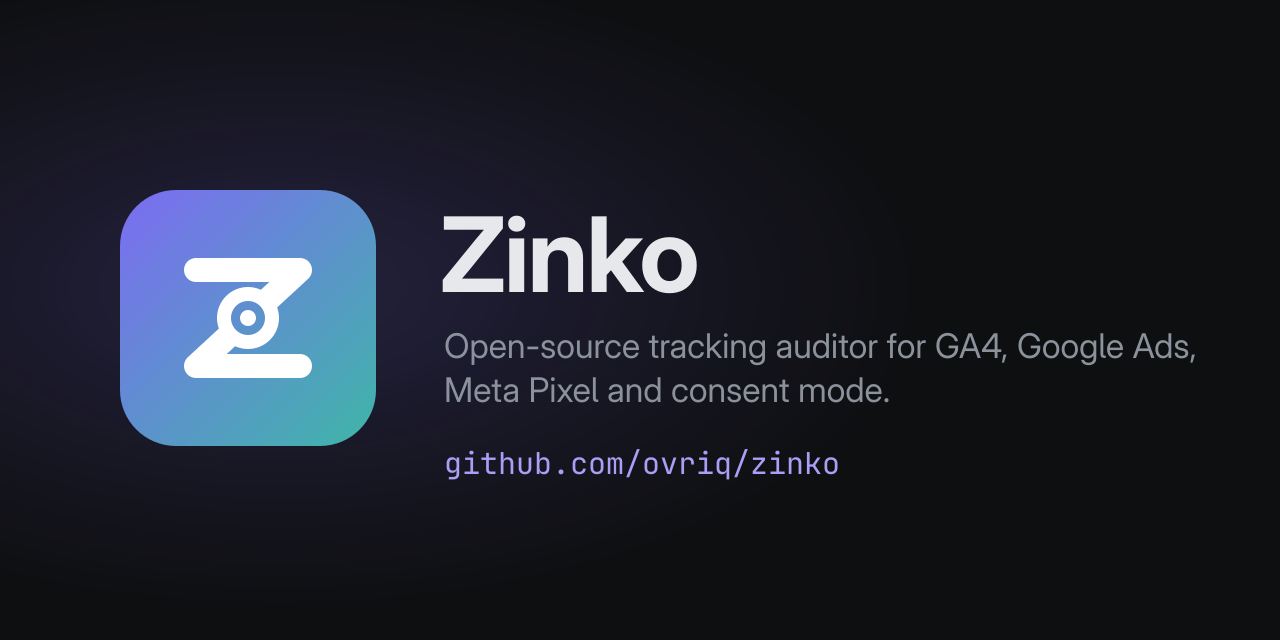
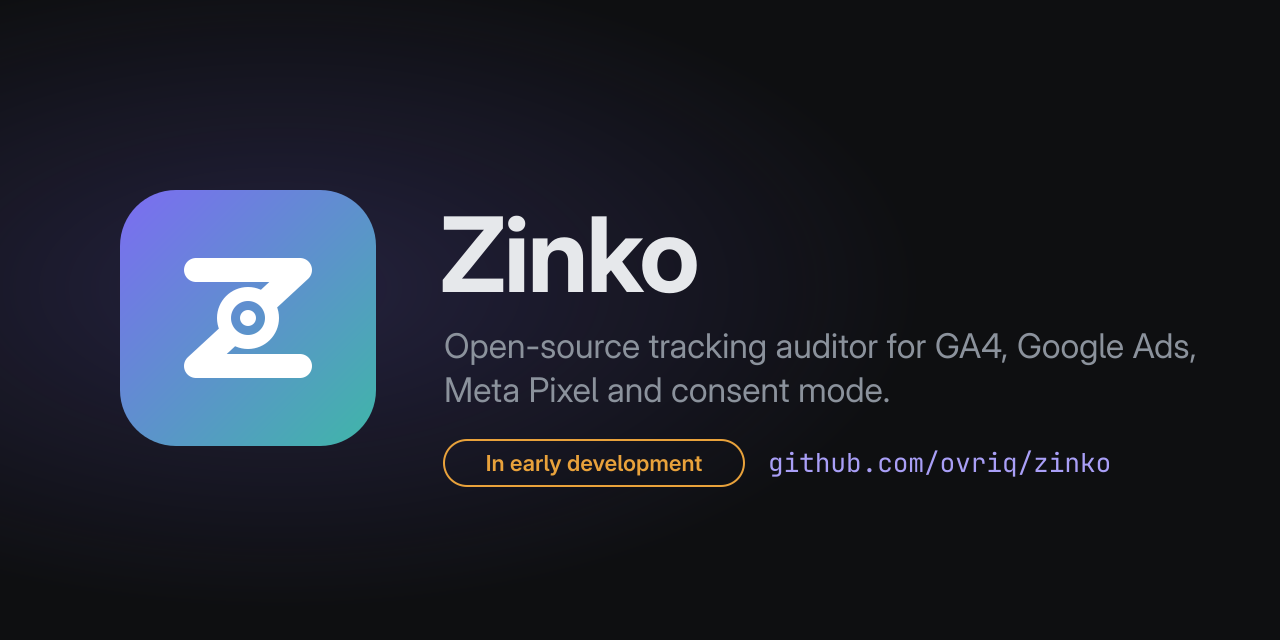
README: trial first, accurate AGPL and consent wording, CONTRIBUTING.md; mark the social preview as early

Changed region(s): [[0.3438, 0.6875, 0.875, 0.75]]

diff --git a/README.md b/README.md
@@ -13,28 +13,13 @@
   <a href="https://github.com/ovriq/zinko/blob/main/LICENSE"><img src="https://img.shields.io/github/license/ovriq/zinko" alt="AGPL-3.0 license"></a>
 </p>
 
-**Status: early development.** Only the hit decoder works today: `zinko decode` turns a GA4 or Meta Pixel request into readable JSON. The audit pipeline, the rules and the web app below are being built ([roadmap](https://github.com/ovriq/zinko/blob/main/docs/roadmap.md)). Licensed AGPL-3.0: you can self-host and modify it, but a modified version you run as a service must publish its source.
+**Status: early development.** Only the hit decoder works today: `zinko decode` turns a GA4 or Meta Pixel request into readable JSON. The audit pipeline, the rules and the web app are being built ([roadmap](https://github.com/ovriq/zinko/blob/main/docs/roadmap.md)). Zinko is written in TypeScript; the web app runs on Cloudflare Workers.
 
-![Zinko audit overview: a tracking health score of 62/100, issue counts by area, changes since the last audit, and top issues such as purchases counted twice in GA4. This is a design mockup, not a working screen.](https://raw.githubusercontent.com/ovriq/zinko/main/.github/assets/overview-mockup.png)
-
-_Design mockup of the planned audit overview. The data is sample data, and this screen is not built yet._
-
-## Why Zinko
-
-A client says their conversions don't match. Today that means an afternoon in Tag Assistant and Omnibug, clicking through the site once per consent choice and copying hits into a spreadsheet. Paid tools such as ObservePoint and Trackingplan automate it, but they are closed source and billed monthly.
-
-Zinko is being built to do that audit in one run, in the open. The design:
-
-- **Evidence, not opinions.** Zinko loads your pages in a real browser and records every tracking request, `dataLayer` push, cookie and consent signal. Each finding links to the decoded hit, the raw request and a screenshot.
-- **Deterministic checks.** Rules are plain functions over the captured data, each with a fixture page and a test. An LLM can explain a finding and write fix steps, but it never decides pass or fail, and every check works without one.
-- **Every consent path.** Each page runs with no banner interaction, after "accept all" and after "reject all", with and without click IDs such as `gclid` and `fbclid` in the landing URL.
-- **Made for consultants and agencies.** Client workspaces, a tag matrix of what fires where, re-runs that mark findings new or fixed, and a white-label report.
-
-Use something else if you need ongoing monitoring of production traffic today, or vendors beyond GA4, Google Ads, Meta and TikTok.
+Licensed AGPL-3.0. If you modify Zinko and let people use it over a network, you must offer those users the source of your version.
 
 ## Try the decoder
 
-Needs Node 24.11+ and pnpm.
+Needs Node 24.11+ or 26+ (not 25) and pnpm.
 
 ```sh
 git clone https://github.com/ovriq/zinko.git && cd zinko
@@ -59,16 +44,33 @@ node apps/cli/dist/index.js decode 'https://region1.google-analytics.com/g/colle
 
 Meta Pixel requests (`facebook.com/tr`) decode the same way. For a POST hit, pass its body with `--body '<raw-body>'`. `zinko audit` is a placeholder until the capture pipeline lands.
 
+## Why Zinko
+
+A client says their conversions don't match. Today that usually means an afternoon in Tag Assistant and Omnibug, going through the site once per consent choice, then assembling the evidence into a report by hand. Commercial products such as ObservePoint and Trackingplan automate parts of this as closed-source subscriptions.
+
+Zinko is being built to do that audit in one run, in the open. The design:
+
+- **Evidence, not opinions.** Zinko loads your pages in a real browser and records every tracking request, `dataLayer` push, cookie and consent signal. Each finding links to the decoded hit, the raw request and a screenshot.
+- **Deterministic checks.** Rules are plain functions over the captured data, each with a fixture page and a test. An LLM can explain a finding and write fix steps, but it never decides pass or fail, and every check works without one.
+- **Every consent path.** Each page runs with no banner interaction, after "accept all" and after "reject all", with and without click IDs such as `gclid` and `fbclid` in the landing URL.
+- **Made for consultants and agencies.** Client workspaces, a tag matrix of what fires where, re-runs that mark findings new or fixed, and a white-label report.
+
+![Zinko audit overview: a tracking health score of 62/100, issue counts by area, changes since the last audit, and top issues such as purchases counted twice in GA4. This is a design mockup, not a working screen.](https://raw.githubusercontent.com/ovriq/zinko/main/.github/assets/overview-mockup.png)
+
+_Design mockup of the planned audit overview. The data is sample data, and this screen is not built yet._
+
+Use something else if you need ongoing monitoring of production traffic today, or vendors beyond GA4, Google Ads, Meta and TikTok.
+
 ## Planned checks (v0.1)
 
-| Area       | What it catches                                                                                                                                 |
-| ---------- | ----------------------------------------------------------------------------------------------------------------------------------------------- |
-| Consent    | Ad or analytics cookies set before consent; pixels firing before consent or after "reject all"; `consent default` arriving after the Google tag |
-| Click IDs  | `gclid`, `fbclid` and `ttclid` lost across navigation; `_gcl_aw`, `_fbc` and `_ttp` cookies missing after consent                               |
-| Coverage   | `purchase` without `transaction_id`, `value` or `currency`; key pages with no `page_view`                                                       |
-| Duplicates | The same event fired twice for one action; several GA4 IDs on one page; Meta Pixel initialized twice                                            |
-| Dedup      | Meta browser `eventID` missing or reused, so Conversions API events can't be deduplicated                                                       |
-| Hygiene    | Email addresses or phone numbers in URLs and parameters; tags failing with 4xx or 5xx; hits sent from staging hosts                             |
+| Area       | What it catches                                                                                                                                                                                                               |
+| ---------- | ----------------------------------------------------------------------------------------------------------------------------------------------------------------------------------------------------------------------------- |
+| Consent    | Ad or analytics cookies set before consent; non-Google pixels firing before consent or after "reject all"; Google hits before consent without a denied consent state (`gcs`); `consent default` arriving after the Google tag |
+| Click IDs  | `gclid`, `fbclid` and `ttclid` lost across navigation; `_gcl_aw`, `_fbc` and `_ttp` cookies missing after consent                                                                                                             |
+| Coverage   | `purchase` without `transaction_id`, `value` or `currency`; key pages with no `page_view`                                                                                                                                     |
+| Duplicates | The same event fired twice for one action; several GA4 IDs on one page; Meta Pixel initialized twice                                                                                                                          |
+| Dedup      | Meta browser `eventID` missing or reused, so Conversions API events can't be deduplicated                                                                                                                                     |
+| Hygiene    | Email addresses or phone numbers in URLs and parameters; tags failing with 4xx or 5xx; hits sent from staging hosts                                                                                                           |
 
 The full v0.1 scope, and what comes after it (GTM and GA4 configuration checks, scheduled audits, tracking plans in git), is in [docs/product.md](https://github.com/ovriq/zinko/blob/main/docs/product.md).
 
@@ -88,18 +90,7 @@ The stack is Effect 4 and TanStack Start on Cloudflare Workers, Postgres through
 
 ## Contributing
 
-Issues and pull requests are welcome.
-
-```sh
-pnpm install
-pnpm build                 # the CLI imports the built decoders package
-pnpm check && pnpm typecheck && pnpm test
-```
-
-- [AGENTS.md](https://github.com/ovriq/zinko/blob/main/AGENTS.md): code layout and rules, for people and coding agents.
-- [infra/README.md](https://github.com/ovriq/zinko/blob/main/infra/README.md): running the web app locally (`pnpm dev`) and deploying it.
-- [docs/architecture.md](https://github.com/ovriq/zinko/blob/main/docs/architecture.md) and [docs/decisions/](https://github.com/ovriq/zinko/tree/main/docs/decisions): how the pieces fit and why.
-- A new check starts with a fixture page that has the bug, then a failing test, then the rule.
+Issues and pull requests are welcome. Setup, checks and where things live: [CONTRIBUTING.md](https://github.com/ovriq/zinko/blob/main/CONTRIBUTING.md).
 
 ## License
 

diff --git a/CONTRIBUTING.md b/CONTRIBUTING.md
@@ -1,0 +1,17 @@
+# Contributing to Zinko
+
+Needs Node 24.11+ or 26+ (not 25) and pnpm.
+
+```sh
+pnpm install
+pnpm build                 # the CLI imports the built decoders package
+pnpm check && pnpm typecheck && pnpm test
+```
+
+Run all three checks before opening a pull request; zero errors and zero warnings is the bar.
+
+- [AGENTS.md](./AGENTS.md): code layout and rules, for people and coding agents.
+- [infra/README.md](./infra/README.md): running the web app locally (`pnpm dev`) and deploying it.
+- [docs/architecture.md](./docs/architecture.md) and [docs/decisions/](./docs/decisions/): how the pieces fit and why.
+- [docs/roadmap.md](./docs/roadmap.md): milestones and how we build.
+- A new check starts with a fixture page that has the bug, then a failing test, then the rule.
